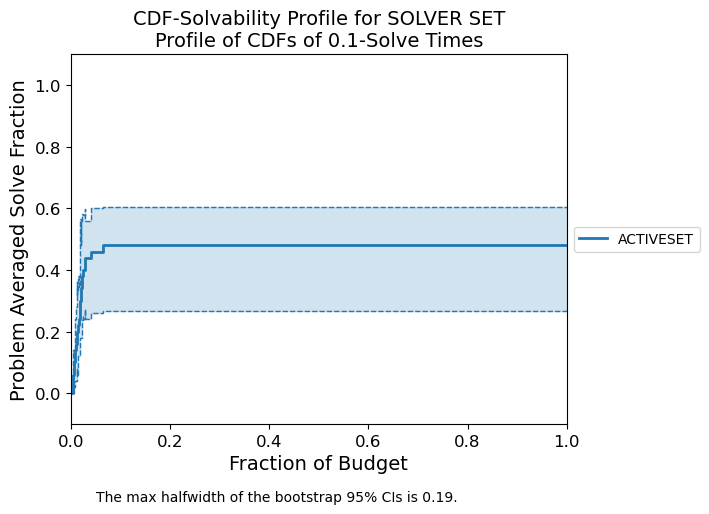
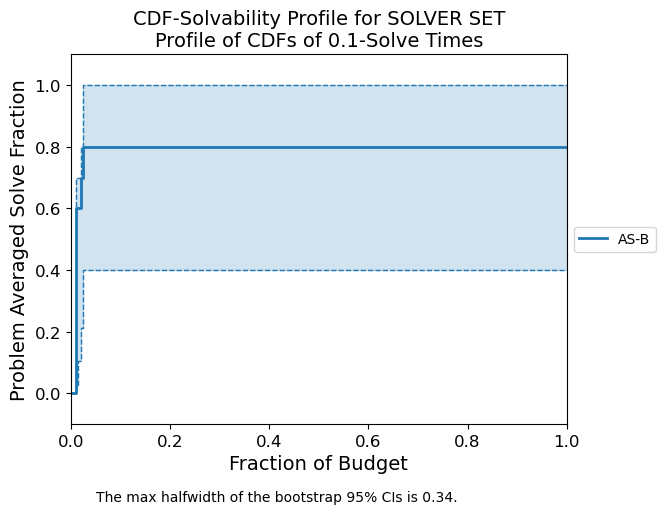
fix bug in finite diff

diff --git a/simopt/directory.py b/simopt/directory.py
@@ -5,78 +5,33 @@ Summary
 Provide dictionary directories listing solvers, problems, and models.
 """
 # import solvers
-from .solvers.astrodf_det import ASTRODF
-from .solvers.randomsearch import RandomSearch
-from .solvers.neldmd_det import NelderMead
-from .solvers.strong import STRONG
-from .solvers.spsa import SPSA
-from .solvers.adam import ADAM
-from .solvers.aloe import ALOE
-from .solvers.gasso import GASSO
 from .solvers.Boom_FrankWolfe import BoomFrankWolfe
 from .solvers.Boom_FrankWolfe1 import BoomFrankWolfe1
 from .solvers.Boom_FrankWolfe2 import BoomFrankWolfe2
-from .solvers.FrankWolfe_SS import BoomFrankWolfe3  #Boom_FrankWolfe3
+from .solvers.FrankWolfe_SS import FrankWolfeSS  #Boom_FrankWolfe3
 from .solvers.Boom_ProxGD import BoomProxGD
 from .solvers.Boom_ProxGD1 import BoomProxGD1
 from .solvers.Boom_ProxGD2 import BoomProxGD2
 from .solvers.Boom_ProxGD3 import BoomProxGD3 #pgdss
-# from .solvers.active_set_fixed_joe_v2 import ACTIVESET
 from .solvers.active_set import ACTIVESET
-# from .solvers.active_set_copy import ACTIVESET
 from .solvers.active_set1 import ACTIVESET1
 from .solvers.active_set2 import ACTIVESET2
 from .solvers.active_set3 import ACTIVESET3
-from .solvers.dsearch import DS
 # import models and problems
-from .models.cntnv import CntNV, CntNVMaxProfit
-from .models.mm1queue import MM1Queue, MM1MinMeanSojournTime
-from .models.facilitysizing import FacilitySize, FacilitySizingTotalCost, FacilitySizingMaxService
-from .models.rmitd0 import RMITD, RMITDMaxRevenue
-from .models.sscont import SSCont, SSContMinCost
-from .models.ironore import IronOre, IronOreMaxRev, IronOreMaxRevCnt
-from .models.dynamnews import DynamNews, DynamNewsMaxProfit
-from .models.dualsourcing import DualSourcing, DualSourcingMinCost
-from .models.contam import Contamination, ContaminationTotalCostDisc, ContaminationTotalCostCont
-from .models.chessmm import ChessMatchmaking, ChessAvgDifference
-# from .models.san_2 import SAN, SANLongestPath
-# from .models.san_1 import SAN1, SANLongestPath1
-from .models.san import SAN, SANLongestPath, SANLongestPathConstr
-from .models.hotel import Hotel, HotelRevenue
-from .models.tableallocation import TableAllocation, TableAllocationMaxRev
-from .models.paramesti import ParameterEstimation, ParamEstiMaxLogLik
-from .models.fixedsan import FixedSAN, FixedSANLongestPath
+from .models.san import SAN, SANLongestPathConstr
 from .models.network import Network, NetworkMinTotalCost
-from.models.fickleserver import FickleServer, FickleServerMinServiceRate
-from .models.EOQ import EOQ, EOQ_Mincost
-# from .models.vac import COVID_vac, CovidMinInfectVac  #orginal method
-# from .models.vac_alias import COVID_vac, CovidMinInfectVac  #by multinomial 
-from .models.covid import COVID_vac, CovidMinInfectVac  #combine case
-from .models.ccbaby_old import BabyCC, CCBabyShift
 from .models.smf import SMF, SMF_Max
 from .models.openjackson import OpenJackson, OpenJacksonMinQueue   #6
 from .models.cascade import Cascade, CascadeMax
-from .models.testcase2 import QuadraticF, QuadraticF_Min
-from .models.volunteer import Volunteer, VolunteerDist, VolunteerSurvival
 from .models.smfcvx import SMFCVX0, SMFCVX_Max0
-from .models.smf_cvx import CVXSMF, CVXSMF_Max
-# from .models.smfcvx import SMFCVX, SMFCVX_Max
 
 
 # directory dictionaries
 solver_directory = {
-    "ASTRODF": ASTRODF,
     "AS-B": ACTIVESET,
     "AS-I": ACTIVESET1,
     "AS-Z": ACTIVESET2,
     "AS-SS": ACTIVESET3,
-    "RNDSRCH": RandomSearch,
-    "NELDMD": NelderMead,
-    "STRONG": STRONG,
-    "SPSA": SPSA,
-    "ADAM": ADAM,
-    "ALOE": ALOE,
-    "GASSO": GASSO,
     "PGD-B": BoomProxGD,
     "PGD-I": BoomProxGD1,
     "PGD-Z": BoomProxGD2,
@@ -84,22 +39,13 @@ solver_directory = {
     "FW-B": BoomFrankWolfe,
     "FW-I": BoomFrankWolfe1,
     "FW-Z": BoomFrankWolfe2,
-    "FW-SS": BoomFrankWolfe3,
-    "DS": DS
+    "FW-SS": FrankWolfeSS
 }
 
 solver_unabbreviated_directory = {
-    "ASTRO-DF (SBCN)": ASTRODF,
-    "Active Set (SBCN)": ACTIVESET,
     "Active Set1 (SBCN)": ACTIVESET1,
     "Active Set2 (SBCN)": ACTIVESET2,
     "Active Set3 (SBCN)": ACTIVESET3,
-    "Random Search (SSMN)": RandomSearch,
-    "Nelder-Mead (SBCN)": NelderMead,
-    "STRONG (SBCN)": STRONG,
-    "SPSA (SBCN)": SPSA,
-    "ADAM (SBCN)": ADAM,
-    "Adaptive Line-search with Oracle Estimations (SBCN)": ALOE,
     "PGD-backtracking (SBCN)": BoomProxGD,
     "PGD-interpolation (SBCN)": BoomProxGD1,
     "PGD-zoom (SBCN)": BoomProxGD2,
@@ -107,104 +53,33 @@ solver_unabbreviated_directory = {
     "FW-backtracking (SBCN)": BoomFrankWolfe,
     "FW-interpolation (SBCN)": BoomFrankWolfe1,
     "FW-zoom (SBCN)": BoomFrankWolfe2,
-    "FW-SS (SBCN)": BoomFrankWolfe3,
-    "DS (SBCN)": DS
+    "FW-SS (SBCN)": FrankWolfeSS
 }
 
 problem_directory = {
-    "CNTNEWS-1": CntNVMaxProfit,
-    "MM1-1": MM1MinMeanSojournTime,
-    "FACSIZE-1": FacilitySizingTotalCost,
-    "FACSIZE-2": FacilitySizingMaxService,
-    "RMITD-1": RMITDMaxRevenue,
-    "SSCONT-1": SSContMinCost,
-    "IRONORE-1": IronOreMaxRev,
-    "IRONORECONT-1": IronOreMaxRevCnt,
-    "DYNAMNEWS-1": DynamNewsMaxProfit,
-    "DUALSOURCING-1": DualSourcingMinCost,
-    "CONTAM-1": ContaminationTotalCostDisc,
-    "CONTAM-2": ContaminationTotalCostCont,
-    "CHESS-1": ChessAvgDifference,
-    "SAN-1": SANLongestPath,
     "SAN-2": SANLongestPathConstr,
-    "HOTEL-1": HotelRevenue,
-    "TABLEALLOCATION-1": TableAllocationMaxRev,
-    "PARAMESTI-1": ParamEstiMaxLogLik,
-    "FIXEDSAN-1": FixedSANLongestPath,
     "NW-1": NetworkMinTotalCost,
-    "FICKLE-1": FickleServerMinServiceRate,
-    "EOQ-1": EOQ_Mincost,
-    "VAC-1": CovidMinInfectVac,
-    "CCBABY-1": CCBabyShift,
     "SMF-1": SMF_Max,
     "OPENJ-1": OpenJacksonMinQueue,
     "CC-1": CascadeMax,
-    "QF-1": QuadraticF_Min,
-    "VOLUNTEER-1": VolunteerDist,
-    "VOLUNTEER-2": VolunteerSurvival,
-    "CVXSMF-1": CVXSMF_Max,
     "SMFCVX-1": SMFCVX_Max0
 }
 
 problem_unabbreviated_directory = {
-    "Max Profit for Continuous Newsvendor (SBCG)": CntNVMaxProfit,
-    "Min Mean Sojourn Time for MM1 Queue (SBCG)": MM1MinMeanSojournTime,
-    "Min Total Cost for Facility Sizing (SSCG)": FacilitySizingTotalCost,
-    "Max Service for Facility Sizing (SDCN)": FacilitySizingMaxService,
-    "Max Revenue for Revenue Management Temporal Demand (SDDN)": RMITDMaxRevenue,
-    "Min Total Cost for (s, S) Inventory (SBCN)": SSContMinCost,
-    "Max Revenue for Iron Ore (SBDN)": IronOreMaxRev,
-    "Max Revenue for Continuous Iron Ore (SBCN)": IronOreMaxRevCnt,
-    "Max Profit for Dynamic Newsvendor (SBDN)": DynamNewsMaxProfit,
-    "Min Cost for Dual Sourcing (SBDN)": DualSourcingMinCost,
-    "Min Total Cost for Discrete Contamination (SSDN)": ContaminationTotalCostDisc,
-    "Min Total Cost for Continuous Contamination (SSCN)": ContaminationTotalCostCont,
-    "Min Avg Difference for Chess Matchmaking (SSCN)": ChessAvgDifference,
-    "Min Mean Longest Path for Stochastic Activity Network (SBCG)": SANLongestPath,
     "Min Mean Longest Path for Stochastic Activity Network (SBCG)": SANLongestPathConstr,
-    "Max Revenue for Hotel Booking (SBDN)": HotelRevenue,
-    "Max Revenue for Restaurant Table Allocation (SDDN)": TableAllocationMaxRev,
-    "Max Log Likelihood for Gamma Parameter Estimation (SBCN)": ParamEstiMaxLogLik,
-    "Min Mean Longest Path for Fixed Stochastic Activity Network (SBCG)": FixedSANLongestPath,
     "Min Total Cost for Communication Networks System (SDCN)": NetworkMinTotalCost,
-    "MIN Total cost...": FickleServerMinServiceRate,
-    "Min Total Symptomatic Infected People()": CovidMinInfectVac,
-    "Min Total Cost for Baby Call Center With Shift()": CCBabyShift,
     "Min Total Max Flow for SMF()": SMF_Max,
     "Min Total Queue": OpenJacksonMinQueue,
-    "Min Total Cost for Volunteer": VolunteerDist,
-    "Max Total Survival rate for Volunteer": VolunteerSurvival,
     "Min": CascadeMax,
-    "Max Flow Problem Convex": CVXSMF_Max,
     "Max Flow Problem Convex": SMFCVX_Max0
 }
 model_directory = {
-    "CNTNEWS": CntNV,
-    "MM1": MM1Queue,
-    "FACSIZE": FacilitySize,
-    "RMITD": RMITD,
-    "SSCONT": SSCont,
-    "IRONORE": IronOre,
-    "DYNAMNEWS": DynamNews,
-    "DUALSOURCING": DualSourcing,
-    "CONTAM": Contamination,
-    "CHESS": ChessMatchmaking,
     "SAN": SAN,
-    "HOTEL": Hotel,
-    "TABLEALLOCATION": TableAllocation,
-    "PARAMESTI": ParameterEstimation,
-    "FIXEDSAN": FixedSAN,
     "NETWORK": Network,
-    "FICKLE": FickleServer,
-    "COVIDVAC": COVID_vac,
-    "CCBABY": BabyCC,
     "SMF": SMF,
     "OPENJACKSON": OpenJackson,
-    "VOLUNTEER": Volunteer,
     "CASCADE": Cascade,
-    "CVXSMF": CVXSMF,
     "SMFCVX": SMFCVX0,
-    "QF": QuadraticF
 }
 model_unabbreviated_directory = {
     "Max Profit for Continuous Newsvendor (SBCG)": "CNTNEWS",

diff --git a/simopt/solvers/active_set.py b/simopt/solvers/active_set.py
@@ -443,7 +443,7 @@ class ACTIVESET(Solver):
             for j in range(len(ra)):
                 if ra_d[j] - tol > 0:
                     s = ra[j]/ra_d[j]
-                    if s < steph1:
+                    if s < temp_steph1:
                         temp_steph1 = s
             steph1 = min(temp_steph1, steph1)
 
@@ -458,13 +458,13 @@ class ACTIVESET(Solver):
             for j in range(len(ra)):
                 if ra_d[j] - tol > 0:
                     s = ra[j]/ra_d[j]
-                    if s < steph2:
+                    if s < temp_steph2:
                         temp_steph2 = s
             steph2 = min(temp_steph2, steph2)
 
             if np.isclose(steph2, 0 , atol= tol):
                 # Address numerical stability of step size.
-                steph1 = 0
+                steph2 = 0
             
             # Determine whether to use central diff, backward diff, or forward diff.
             if (steph1 != 0) & (steph2 != 0):
@@ -515,9 +515,6 @@ class ACTIVESET(Solver):
             elif BdsCheck[i] == -1:
                 grad[i] = (fn - fn2) / h[i]
 
-        print('BdsCheck', BdsCheck)
-        print('step size', h)
-        print('grad', grad)
         return grad, budget_spent
 
     def line_search(self, problem, expended_budget, r, grad, cur_sol, alpha_0, d, alpha, beta):

diff --git a/simopt/models/cascade.py b/simopt/models/cascade.py
@@ -47,7 +47,7 @@ class Cascade(Model):
         self.n_rngs = 2
         self.n_responses = 1
         self.factors = fixed_factors
-        self.G = nx.read_graphml('DAG.graphml')
+        self.G = nx.read_graphml('simopt/models/DAG.graphml')
         self.num_nodes = len(self.G)
         self.specifications = {
             "num_subgraph": {
@@ -217,7 +217,7 @@ class CascadeMax(Problem):
         self.gradient_available = False
         self.optimal_value = None
         self.optimal_solution = None
-        self.G = nx.read_graphml('DAG.graphml')
+        self.G = nx.read_graphml('simopt/models/DAG.graphml')
         self.model_default_factors = {}
         self.model_decision_factors = {"init_prob"}
         self.factors = fixed_factors

diff --git a/demo/demo_problems_solvers.py b/demo/demo_problems_solvers.py
@@ -25,10 +25,10 @@ from simopt.experiment_base import ProblemSolver, plot_area_scatterplots, post_n
 # These names are strings and should match those input to directory.py.
 # Ex:
 # solver_names = ["ASTRODF", "Boom-PGD", "Boom-FW", "RNDSRCH", "GASSO", "NELDMD"]
-solver_names = ['ACTIVESET','Boom-PGD', "Boom-FW"]
+solver_names = ["AS-B"]
 # problem_names = ["OPENJACKSON-1", 'SAN-1', 'SMFCVX-1', 'SMF-1', 'CASCADE-1', 'NETWORK-1']
 # problem_names = ["DYNAMNEWS-1", "SSCONT-1", "SAN-1"] "OPENJ-1"
-problem_names = ["SMF-1", 'SMFCVX-1', 'CASCADE-1']
+problem_names = ["CC-1"]
 # problems = [SANLongestPath, SMF_Max, RMITDMaxRevenue, MM1MinMeanSojournTime]
 
 

diff --git a/simopt/models/openjackson.py b/simopt/models/openjackson.py
@@ -6,7 +6,6 @@ Simulate an open jackson network
 import autograd.numpy as np
 import math as math
 from collections import deque
-from ..auto_diff_util import bi_dict, replicate_wrapper, factor_dict, resp_dict_to_array
 
 from ..base import Model, Problem
 
